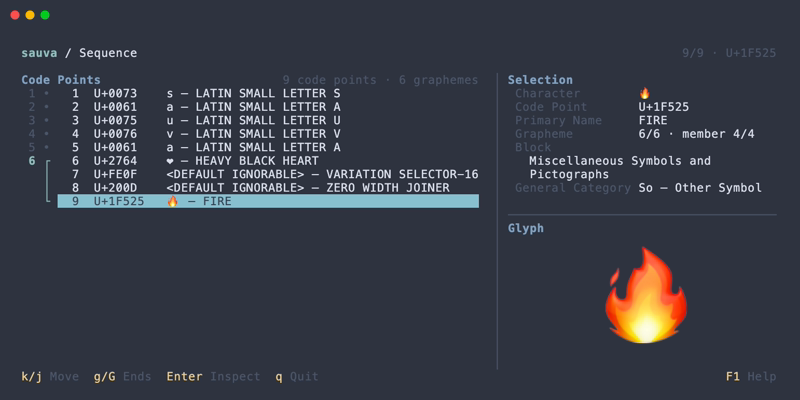
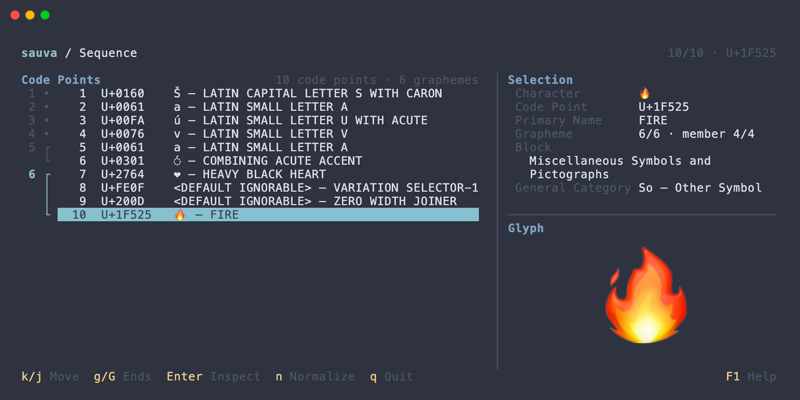
Update demo

diff --git a/README.md b/README.md
@@ -244,7 +244,7 @@ For each code point, sauva tries configured normal fonts, the system default tex
 
 ### Sequence
 
-<img src="./img/sequence.png" width="400" alt="Sequence"> <img src="./img/inspector-sequence.png" width="400" alt="Sequence inspector view">
+<img src="./img/sequence.png" width="400" alt="Sequence"> <img src="./img/sequence-inspector.png" width="400" alt="Sequence inspector view">  <img src="./img/sequence-normalization.png" width="400" alt="Sequence normalization">  <img src="./img/sequence-normalization-result.png" width="400" alt="Sequence normalization result">
 
 ## License
 
